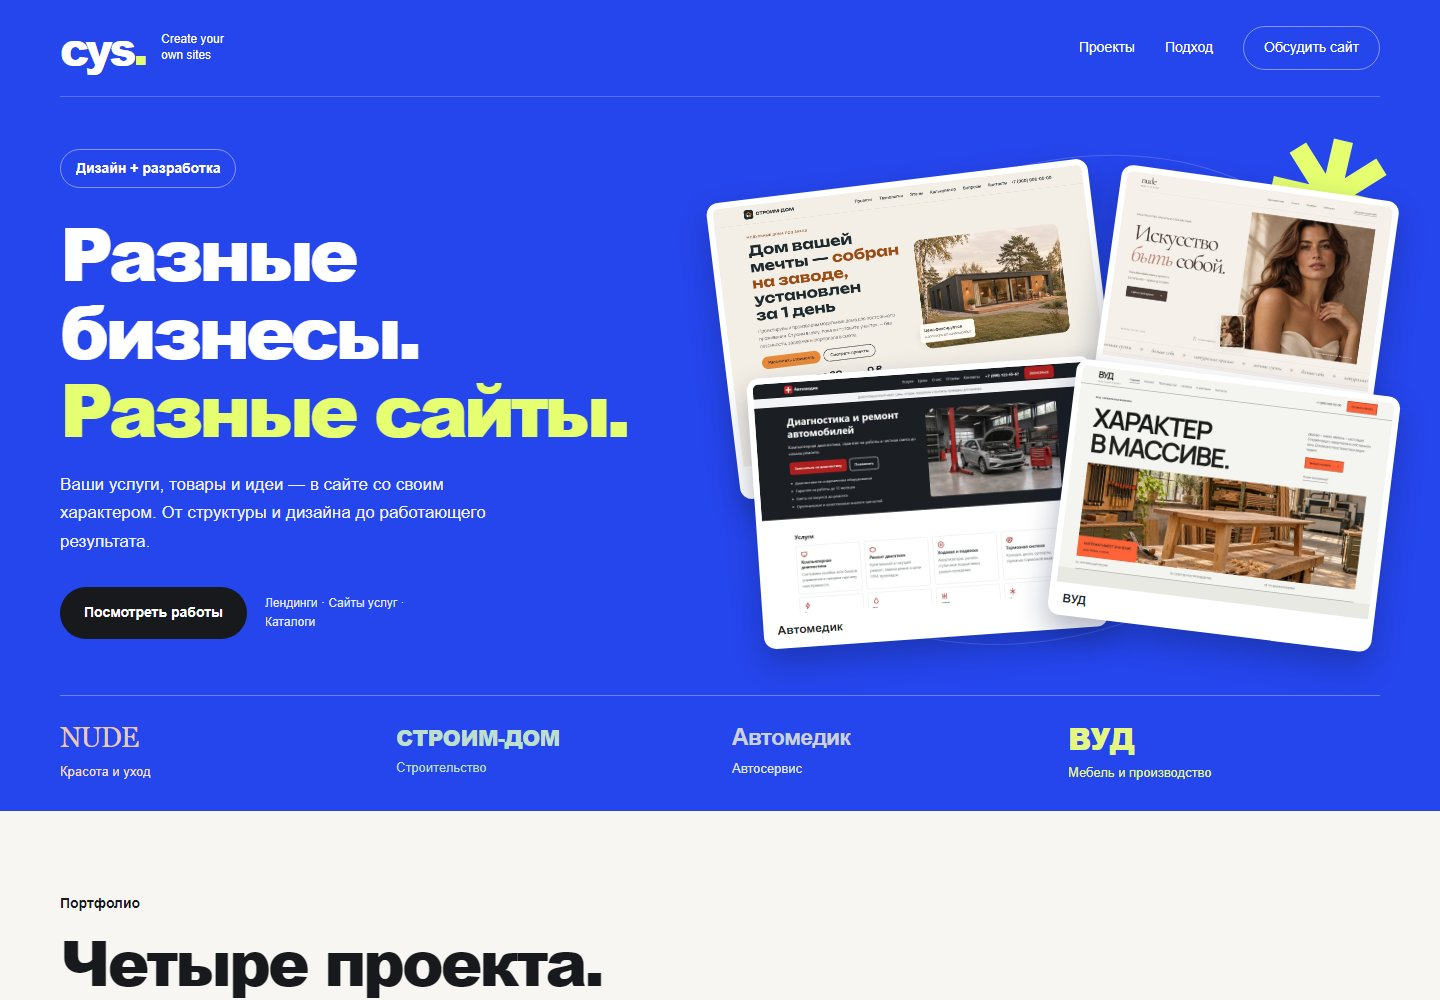
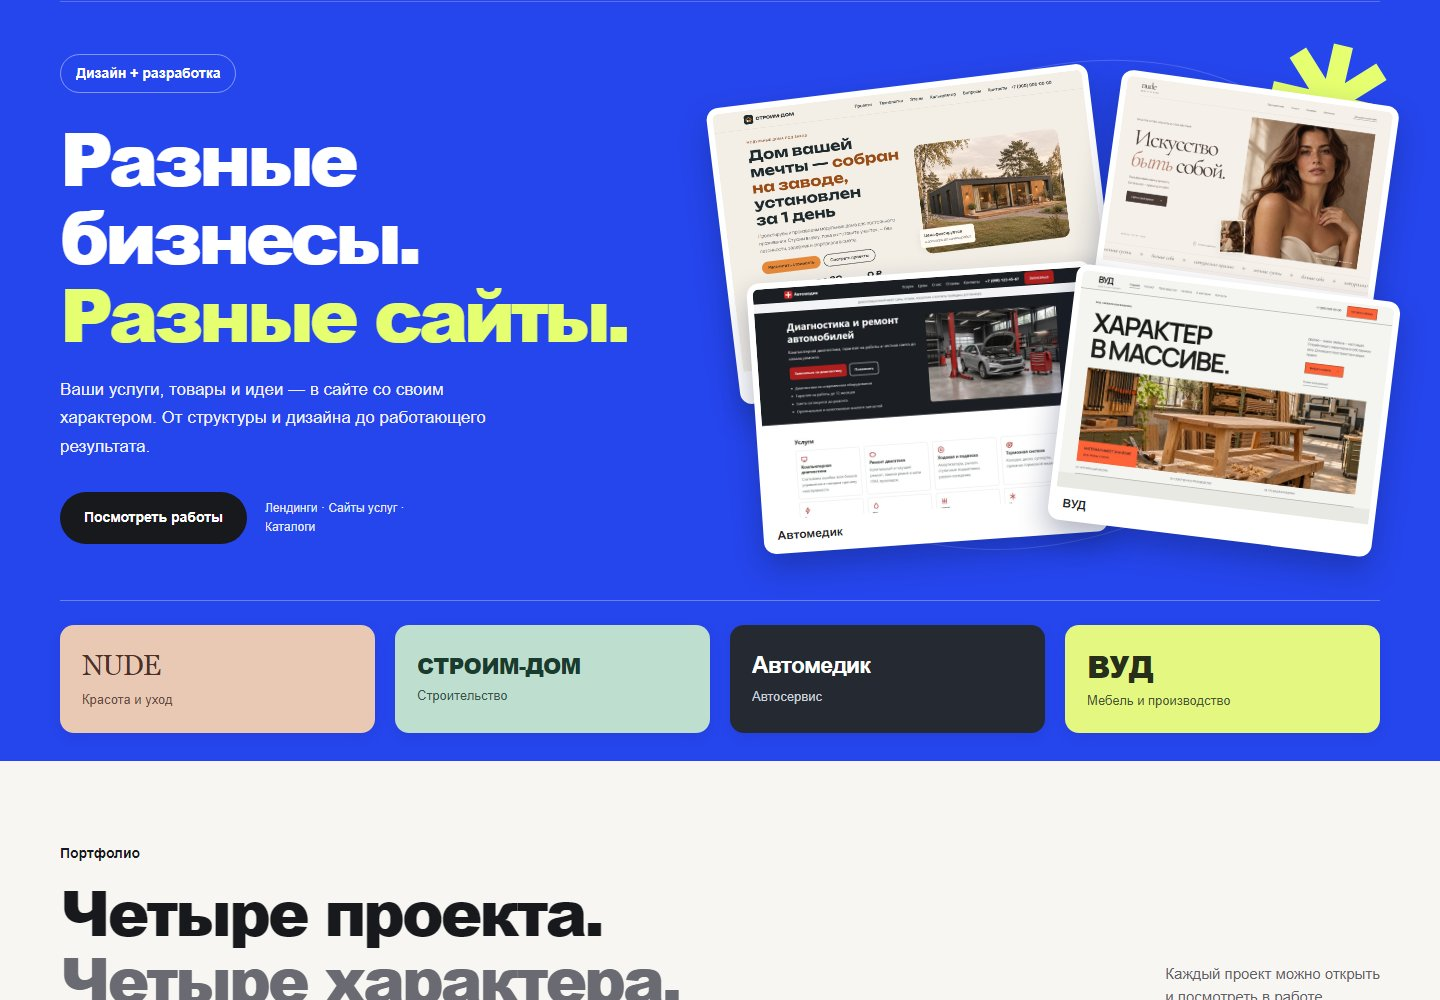
Give project navigation contrasting color tiles

diff --git a/styles.css b/styles.css
@@ -3,13 +3,17 @@
 .header{background:var(--blue);color:var(--white)}.header-inner{display:flex;align-items:center;justify-content:space-between;gap:24px;padding-block:26px;border-bottom:1px solid #ffffff3b}.brand{display:flex;align-items:center;gap:16px}.brand-mark{font-size:44px;line-height:1;font-weight:800;letter-spacing:-3px}.brand-mark span{color:var(--lime)}.brand-name{font-size:12px;line-height:1.3}.header nav{display:flex;align-items:center;gap:30px;font-size:14px}.header nav>a{display:inline-flex;align-items:center;min-height:44px}.header nav>a:hover{color:var(--lime)}.header nav>.nav-contact{padding-inline:20px;border:1px solid #ffffff70;border-radius:999px}.header nav>.nav-contact:hover{background:var(--white);color:var(--blue)}
 .hero{background:var(--blue);color:var(--white);overflow:clip}.hero-layout{display:grid;grid-template-columns:minmax(0,1fr) minmax(0,1.05fr);gap:48px;align-items:center;padding-block:52px 56px;min-height:570px}.hero-copy{position:relative;z-index:2}.hero-copy>.eyebrow{display:inline-block;border:1px solid #ffffff70;border-radius:999px;padding:8px 15px}.hero h1{font-size:clamp(48px,5.15vw,76px);font-weight:800;line-height:1.05;letter-spacing:-.065em;margin-top:25px}.hero h1 span{color:var(--lime)}.hero-description{margin-top:24px;font-size:17px;line-height:1.7;max-width:470px;color:#f1f2ff}.hero-actions{display:flex;align-items:center;flex-wrap:wrap;gap:18px;margin-top:30px}.button{display:inline-flex;align-items:center;justify-content:center;min-height:52px;padding:14px 24px;background:var(--ink);color:var(--white);border:0;border-radius:999px;font-size:14px;font-weight:600;transition:background .2s,transform .2s}.button:hover{background:#30333a;transform:translateY(-2px)}.hero-actions>span{color:#e5eaff;font-size:12px;line-height:1.6;max-width:190px}
 .hero-scene{position:relative;height:480px;isolation:isolate}.hero-scene::before{content:'';position:absolute;inset:12px 10px 0;border:1px solid #ffffff2e;border-radius:50%;transform:rotate(-20deg)}.hero-spark{position:absolute;right:-15px;top:-20px;width:130px;height:130px;color:var(--lime);z-index:0;transform:rotate(13deg)}.hero-shot{position:absolute;display:block;overflow:hidden;border:6px solid var(--white);background:var(--white);border-radius:12px;box-shadow:0 14px 30px #0a174552;transform:rotate(var(--turn));animation:float 7s ease-in-out infinite;transition:filter .2s}.hero-shot img{width:100%;height:auto;aspect-ratio:1.44;object-fit:cover;object-position:top}.hero-shot>span{display:block;padding:9px 8px 4px;color:#25262a;font-size:12px;font-weight:700;line-height:1.2}.hero-shot:hover{animation-play-state:paused;z-index:10;filter:brightness(1.03)}.shot-house{--turn:-7deg;width:59%;left:-1%;top:26px;z-index:1}.shot-nude{--turn:8deg;width:43%;right:-1%;top:28px;z-index:2;animation-delay:-1.7s}.shot-auto{--turn:-4deg;width:53%;left:4%;bottom:-4px;z-index:3;animation-delay:-3.4s}.shot-wood{--turn:7deg;width:50%;right:-1%;bottom:0;z-index:4;animation-delay:-5s}@keyframes float{0%,100%{transform:translateY(0) rotate(var(--turn))}50%{transform:translateY(-9px) rotate(var(--turn))}}
-.project-index{display:grid;grid-template-columns:repeat(4,minmax(0,1fr));border-top:1px solid #ffffff50;padding-block:24px 28px;gap:24px}.project-index a{display:flex;align-items:start;flex-direction:column;gap:7px;min-height:56px;justify-content:center}.project-index a:hover{filter:brightness(1.12)}.project-index span{font-size:23px;font-weight:700;letter-spacing:-.035em;line-height:1.2}.project-index small{font-size:13px;color:inherit}.project-index .index-nude{color:#eac9b4}.project-index .index-nude small{color:#f5dfd2}.project-index .index-house{color:#beded0}.project-index .index-auto{color:#cbd0da}.project-index .index-auto small{color:#e1e5ed}.project-index .index-wood{color:#e3f781}.project-index .index-nude span{font-family:Georgia,serif;font-weight:400;font-size:28px}.project-index .index-house span{font-weight:800;font-size:22px}.project-index .index-wood span{font-size:30px;font-weight:800}
+.project-index{display:grid;grid-template-columns:repeat(4,minmax(0,1fr));border-top:1px solid #ffffff50;padding-block:24px 28px;gap:20px}
+.project-index a{display:flex;align-items:start;flex-direction:column;gap:8px;min-width:0;min-height:108px;justify-content:center;padding:20px 22px;border-radius:14px;box-shadow:0 4px 12px #12228a24;transition:box-shadow .2s}
+.project-index a:hover{box-shadow:0 10px 24px #10207855}.project-index span{font-size:23px;font-weight:700;letter-spacing:-.035em;line-height:1.2}.project-index small{font-size:13px;line-height:1.45}
+.project-index .index-nude{background:#eac9b4;color:#4f3029}.project-index .index-nude small{color:#674b42}.project-index .index-house{background:#beded0;color:#193c2e}.project-index .index-house small{color:#345449}.project-index .index-auto{background:#252a32;color:#fff}.project-index .index-auto small{color:#cbd0da}.project-index .index-wood{background:#e3f781;color:#272e19}.project-index .index-wood small{color:#4b5533}
+.project-index .index-nude span{font-family:Georgia,serif;font-weight:400;font-size:28px}.project-index .index-house span{font-weight:800;font-size:22px}.project-index .index-wood span{font-size:30px;font-weight:800}
 .projects-section{padding-block:82px 40px}.section-heading{display:flex;align-items:end;justify-content:space-between;gap:32px}.section-heading h2{margin-top:14px;font-size:clamp(38px,4.4vw,64px);font-weight:800;line-height:1.06;letter-spacing:-.055em}.section-heading h2 span{color:#6a6b72}.section-heading>p{color:var(--muted);font-size:15px;padding-bottom:4px}.filters{display:flex;gap:8px;flex-wrap:wrap;margin-block:32px 12px}.filters button{min-height:44px;padding:10px 19px;border:1px solid #bfc0c5;background:transparent;border-radius:999px;color:#50515a;font-size:14px;transition:background .18s,color .18s}.filters button:hover{background:#e6e6e3;color:var(--ink)}.filters button[aria-pressed=true]{background:var(--ink);border-color:var(--ink);color:var(--white)}.filters button span{margin-left:6px;color:#d3d4d8}
 .project-grid{display:grid;grid-template-columns:repeat(12,minmax(0,1fr));gap:32px;align-items:start}.project{--case-bg:#eac9b4;--case-ink:#4f3029;--case-muted:#674b42;--angle:-4deg;--phone-angle:6deg;--preview-ratio:1.08;grid-column:span 5;display:grid;grid-template-areas:'meta' 'title' 'preview' 'description' 'actions';grid-template-columns:minmax(0,1fr);padding:30px;background:var(--case-bg);color:var(--case-ink);border-radius:24px;min-width:0;overflow:hidden;scroll-margin-top:24px}.project[hidden]{display:none}#nude{margin-top:56px}#stroim-dom{--case-bg:#beded0;--case-ink:#193c2e;--case-muted:#345449;--angle:3deg;--phone-angle:-6deg;--preview-ratio:1.58;grid-column:span 7}#avtomedik{--case-bg:#252a32;--case-ink:#fff;--case-muted:#cbd0da;--angle:-3deg;--phone-angle:5deg;--preview-ratio:1.58;grid-column:span 7}#wood{--case-bg:#e3f781;--case-ink:#272e19;--case-muted:#4b5533;--angle:4deg;--phone-angle:-6deg;--preview-ratio:1.08;margin-top:56px}.project-meta{grid-area:meta;display:flex;align-items:center;justify-content:space-between;flex-wrap:wrap;gap:8px 12px;color:var(--case-muted);font-size:13px}.project-meta span:first-child{padding:4px 10px;border:1px solid currentColor;border-radius:999px;font-weight:600}.project h3{grid-area:title;margin-top:18px;font-size:clamp(32px,3vw,44px);font-weight:800;line-height:1.1;letter-spacing:-.05em}.project h3>span{display:block;font:14px/1.5 Arial,sans-serif;letter-spacing:0;margin-top:7px;color:var(--case-muted)}#nude h3{font-family:Georgia,serif;font-size:52px;font-weight:400;letter-spacing:-.06em}#wood h3{font-size:52px;letter-spacing:-.07em;text-transform:uppercase}#wood h3 span{text-transform:none}
 .preview{grid-area:preview;position:relative;display:flex;align-items:center;width:100%;aspect-ratio:var(--preview-ratio);margin-top:22px;padding:22px 10px 24px;isolation:isolate}.preview>img:first-of-type{width:93%;height:auto;border:5px solid #ffffffc9;border-radius:9px;box-shadow:0 16px 28px #1d151b29;transform:rotate(var(--angle));transition:transform .35s}.preview:hover>img:first-of-type{transform:translateY(-4px) rotate(0)}.preview>.mobile-shot{position:absolute;z-index:2;right:0;bottom:9px;width:28%;height:auto;max-height:90%;object-fit:cover;object-position:top;border:6px solid #202024;border-radius:22px;box-shadow:0 12px 24px #14141b40;transform:rotate(var(--phone-angle));transition:transform .35s}.preview:hover>.mobile-shot{transform:translateY(-6px) rotate(0)}.preview-label{position:absolute;z-index:3;bottom:12px;left:12px;background:var(--case-ink);color:var(--case-bg);padding:9px 14px;border-radius:999px;font-size:13px;font-weight:600;opacity:0;transition:opacity .2s}.preview:hover .preview-label,.preview:focus-visible .preview-label{opacity:1}.project-description{grid-area:description;color:var(--case-muted);font-size:15px;line-height:1.75;margin-top:12px;max-width:610px}.project-actions{grid-area:actions;display:flex;align-items:start;gap:24px;margin-top:23px;font-size:14px}.text-link{display:inline-flex;align-items:center;justify-content:center;flex-shrink:0;min-height:46px;padding:11px 21px;border-radius:999px;background:var(--case-ink);color:var(--case-bg);font-size:14px;font-weight:600;transition:opacity .2s}.text-link:hover{opacity:.83}details{flex:1;min-width:0}summary{cursor:pointer;width:fit-content;min-height:44px;padding-block:10px;color:var(--case-ink);font-size:14px}.project-details{font-size:14px;line-height:1.7;padding-top:10px;color:var(--case-muted)}.project-details ul{padding-left:18px;margin-block:10px}.tech{font-size:13px;font-weight:600;color:var(--case-ink)}
 .approach{display:grid;grid-template-columns:1fr 1fr;gap:72px;padding:54px;background:#ff805a;border-radius:24px;margin-block:64px 80px}.approach h2{font-size:clamp(34px,3.5vw,50px);font-weight:800;line-height:1.1;letter-spacing:-.05em;margin-top:18px}.approach-intro>p:last-child{color:#472b23;line-height:1.8;font-size:15px;max-width:410px;margin-top:24px}.approach-list>div+div{border-top:1px solid #29211f40;margin-top:20px;padding-top:20px}.approach-list h3{font-size:19px;line-height:1.4;font-weight:700;letter-spacing:-.02em}.approach-list p{margin-top:8px;color:#472b23;font-size:14px;line-height:1.75}.contact{background:var(--lime);color:var(--ink)}.contact-inner{display:grid;grid-template-columns:1.1fr 1fr;gap:56px;align-items:center;padding-block:72px}.contact h2{font-size:clamp(40px,4.7vw,68px);font-weight:800;line-height:1.04;letter-spacing:-.055em;margin-top:18px}.contact h2+p{color:#3d442c;font-size:15px;line-height:1.8;margin-top:25px}.contact-actions{min-width:0}.email-link{display:inline-block;font-size:clamp(19px,2vw,28px);font-weight:600;line-height:1.6;letter-spacing:-.04em;overflow-wrap:anywhere;border-bottom:1px solid #5a633e}.email-link:hover{border-color:var(--ink)}.contact-buttons{display:flex;align-items:center;flex-wrap:wrap;gap:20px;margin-top:24px}.copy-button{min-height:44px;padding:12px 0;border:0;border-bottom:1px solid #64713c;background:none;color:var(--ink);font-size:14px}.copy-button:hover{border-color:var(--ink)}.copy-status{min-height:24px;font-size:13px;color:#3d442c;margin-top:10px}.footer{display:flex;align-items:center;justify-content:space-between;gap:24px;padding-block:26px;font-size:13px;color:var(--muted)}.footer a{padding-block:10px;text-decoration:underline;text-underline-offset:4px}
 @media(max-width:1100px){.wrap{width:calc(100% - 64px)}.hero-layout{gap:28px;padding-block:42px;min-height:530px}.hero h1{font-size:55px}.hero-description{font-size:16px}.hero-scene{height:410px}.hero-spark{width:105px;height:105px}.project-index{gap:18px}.project-index .index-house span{font-size:18px}.project{padding:24px}.project-meta{font-size:12px}.project-description{font-size:14px}.project-actions{gap:16px}.text-link{font-size:13px;padding-inline:18px}summary{font-size:13px}.approach{gap:40px;padding:40px}.contact-inner{gap:36px}.contact h2{font-size:54px}}
 @media(max-width:800px){.hero-layout{grid-template-columns:1fr;gap:30px;padding-block:36px}.hero-copy{max-width:600px}.hero h1{font-size:clamp(46px,7.5vw,64px)}.hero-description{max-width:520px}.hero-scene{width:min(570px,95%);height:420px;margin-inline:auto}.hero-actions>span{max-width:none}.project-grid{grid-template-columns:repeat(2,minmax(0,1fr));gap:24px}.project,#stroim-dom,#avtomedik,#wood{grid-column:span 1;--preview-ratio:1.08}#nude,#wood{margin-top:0}#stroim-dom,#wood{margin-top:44px}.project{padding:22px}.project h3{font-size:30px}#nude h3,#wood h3{font-size:44px}.project-meta{display:block;font-size:12px}.project-meta span:first-child{display:inline-block}.project-meta span:last-child{display:block;margin-top:10px}.project-actions{gap:12px}.text-link{font-size:12px;padding-inline:14px}summary{font-size:12px}.preview{padding-inline:0}.preview>.mobile-shot{border-width:4px;border-radius:15px}.approach{grid-template-columns:1fr;gap:32px}.approach-intro>p:last-child{max-width:100%}.contact-inner{grid-template-columns:1fr;gap:32px}.contact h2{font-size:60px}}
-@media(max-width:560px){.wrap{width:calc(100% - 32px)}.header-inner{padding-block:20px;gap:16px}.brand-mark{font-size:36px}.brand-name{display:none}.header nav{gap:16px;font-size:12px}.header nav>a:nth-child(2){display:none}.header nav>.nav-contact{padding-inline:14px;min-height:44px}.hero-layout{padding-block:32px 24px;gap:26px}.hero .eyebrow{font-size:14px;padding:6px 12px}.hero h1{font-size:clamp(37px,10.5vw,57px);margin-top:20px;letter-spacing:-.065em}.hero-description{font-size:15px;margin-top:20px;line-height:1.7}.hero-actions{margin-top:23px;gap:14px}.button{min-height:48px;padding:13px 20px;font-size:14px}.hero-actions>span{font-size:12px;max-width:160px}.hero-scene{height:315px;width:96%;margin-top:8px}.hero-spark{width:82px;height:82px;right:-7px;top:-4px}.hero-shot{border-width:4px;border-radius:8px}.hero-shot>span{font-size:10px;padding:6px 4px 3px}.shot-house{top:24px;width:59%}.shot-nude{top:32px}.shot-auto{bottom:8px}.shot-wood{bottom:9px}.project-index{grid-template-columns:repeat(2,minmax(0,1fr));gap:20px 24px;padding-block:24px}.project-index a{min-height:52px}.project-index span{font-size:21px}.project-index .index-nude span{font-size:25px}.project-index .index-house span{font-size:18px}.project-index small{font-size:12px}.projects-section{padding-block:42px 16px}.section-heading{display:block}.section-heading h2{font-size:39px}.section-heading>p{font-size:14px;margin-top:16px}.filters{margin-block:24px 20px;gap:7px}.filters button{font-size:12px;padding-inline:13px}.project-grid{grid-template-columns:minmax(0,1fr);gap:22px}.project,#stroim-dom,#avtomedik,#wood{grid-column:1;--preview-ratio:1.3;margin-top:0}.project{padding:24px 22px;border-radius:20px}.project-meta{display:flex;align-items:center;justify-content:space-between;flex-wrap:wrap;gap:8px}.project-meta span:last-child{margin-top:0;font-size:12px}.project h3{font-size:32px;margin-top:18px}#nude h3,#wood h3{font-size:44px}.project-description{font-size:14px;margin-top:14px}.project-actions{gap:22px;margin-top:20px}.text-link{font-size:13px;padding-inline:18px}summary{font-size:13px}.preview{padding:16px 8px 18px;margin-top:12px}.preview>.mobile-shot{width:27%;border-width:5px;border-radius:18px;bottom:10px}.preview>img:first-of-type{border-width:4px;border-radius:7px}.preview-label{display:none}.approach{margin-block:32px 44px;padding:30px 24px;border-radius:20px;gap:28px}.approach h2{font-size:36px}.approach-intro>p:last-child{margin-top:18px;font-size:14px}.approach-list h3{font-size:18px}.contact-inner{padding-block:44px;gap:28px}.contact h2{font-size:46px}.contact h2+p{font-size:14px;margin-top:20px}.email-link{font-size:clamp(16px,4.9vw,24px)}.contact-buttons{gap:16px}.copy-button{font-size:13px}.contact-buttons .button{font-size:13px;padding-inline:18px}.footer{align-items:start;flex-wrap:wrap;gap:12px 20px;padding-block:20px;font-size:12px}.footer p{display:none}.footer a{padding:0}}
+@media(max-width:560px){.wrap{width:calc(100% - 32px)}.header-inner{padding-block:20px;gap:16px}.brand-mark{font-size:36px}.brand-name{display:none}.header nav{gap:16px;font-size:12px}.header nav>a:nth-child(2){display:none}.header nav>.nav-contact{padding-inline:14px;min-height:44px}.hero-layout{padding-block:32px 24px;gap:26px}.hero .eyebrow{font-size:14px;padding:6px 12px}.hero h1{font-size:clamp(37px,10.5vw,57px);margin-top:20px;letter-spacing:-.065em}.hero-description{font-size:15px;margin-top:20px;line-height:1.7}.hero-actions{margin-top:23px;gap:14px}.button{min-height:48px;padding:13px 20px;font-size:14px}.hero-actions>span{font-size:12px;max-width:160px}.hero-scene{height:315px;width:96%;margin-top:8px}.hero-spark{width:82px;height:82px;right:-7px;top:-4px}.hero-shot{border-width:4px;border-radius:8px}.hero-shot>span{font-size:10px;padding:6px 4px 3px}.shot-house{top:24px;width:59%}.shot-nude{top:32px}.shot-auto{bottom:8px}.shot-wood{bottom:9px}.project-index{grid-template-columns:repeat(2,minmax(0,1fr));gap:12px;padding-block:24px}.project-index a{min-height:96px;padding:16px;border-radius:12px}.project-index span{font-size:21px}.project-index .index-nude span{font-size:25px}.project-index .index-house span{font-size:clamp(14px,3.8vw,18px)}.project-index small{font-size:12px}.projects-section{padding-block:42px 16px}.section-heading{display:block}.section-heading h2{font-size:39px}.section-heading>p{font-size:14px;margin-top:16px}.filters{margin-block:24px 20px;gap:7px}.filters button{font-size:12px;padding-inline:13px}.project-grid{grid-template-columns:minmax(0,1fr);gap:22px}.project,#stroim-dom,#avtomedik,#wood{grid-column:1;--preview-ratio:1.3;margin-top:0}.project{padding:24px 22px;border-radius:20px}.project-meta{display:flex;align-items:center;justify-content:space-between;flex-wrap:wrap;gap:8px}.project-meta span:last-child{margin-top:0;font-size:12px}.project h3{font-size:32px;margin-top:18px}#nude h3,#wood h3{font-size:44px}.project-description{font-size:14px;margin-top:14px}.project-actions{gap:22px;margin-top:20px}.text-link{font-size:13px;padding-inline:18px}summary{font-size:13px}.preview{padding:16px 8px 18px;margin-top:12px}.preview>.mobile-shot{width:27%;border-width:5px;border-radius:18px;bottom:10px}.preview>img:first-of-type{border-width:4px;border-radius:7px}.preview-label{display:none}.approach{margin-block:32px 44px;padding:30px 24px;border-radius:20px;gap:28px}.approach h2{font-size:36px}.approach-intro>p:last-child{margin-top:18px;font-size:14px}.approach-list h3{font-size:18px}.contact-inner{padding-block:44px;gap:28px}.contact h2{font-size:46px}.contact h2+p{font-size:14px;margin-top:20px}.email-link{font-size:clamp(16px,4.9vw,24px)}.contact-buttons{gap:16px}.copy-button{font-size:13px}.contact-buttons .button{font-size:13px;padding-inline:18px}.footer{align-items:start;flex-wrap:wrap;gap:12px 20px;padding-block:20px;font-size:12px}.footer p{display:none}.footer a{padding:0}}
 .project-grid[data-count="1"]{grid-template-columns:minmax(0,900px);justify-content:center}.project-grid[data-count="1"] .project{grid-column:1;width:100%;margin-top:0;--preview-ratio:1.6}.project-grid[data-count="2"]{grid-template-columns:repeat(2,minmax(0,1fr))}.project-grid[data-count="2"] .project{grid-column:span 1;margin-top:0;--preview-ratio:1.2}@media(max-width:560px){.project-grid[data-count="2"]{grid-template-columns:minmax(0,1fr)}.project-grid[data-count="1"] .project{--preview-ratio:1.3}}
 @media(prefers-reduced-motion:reduce){html{scroll-behavior:auto}*,*::before,*::after{animation:none!important;transition:none!important}}
